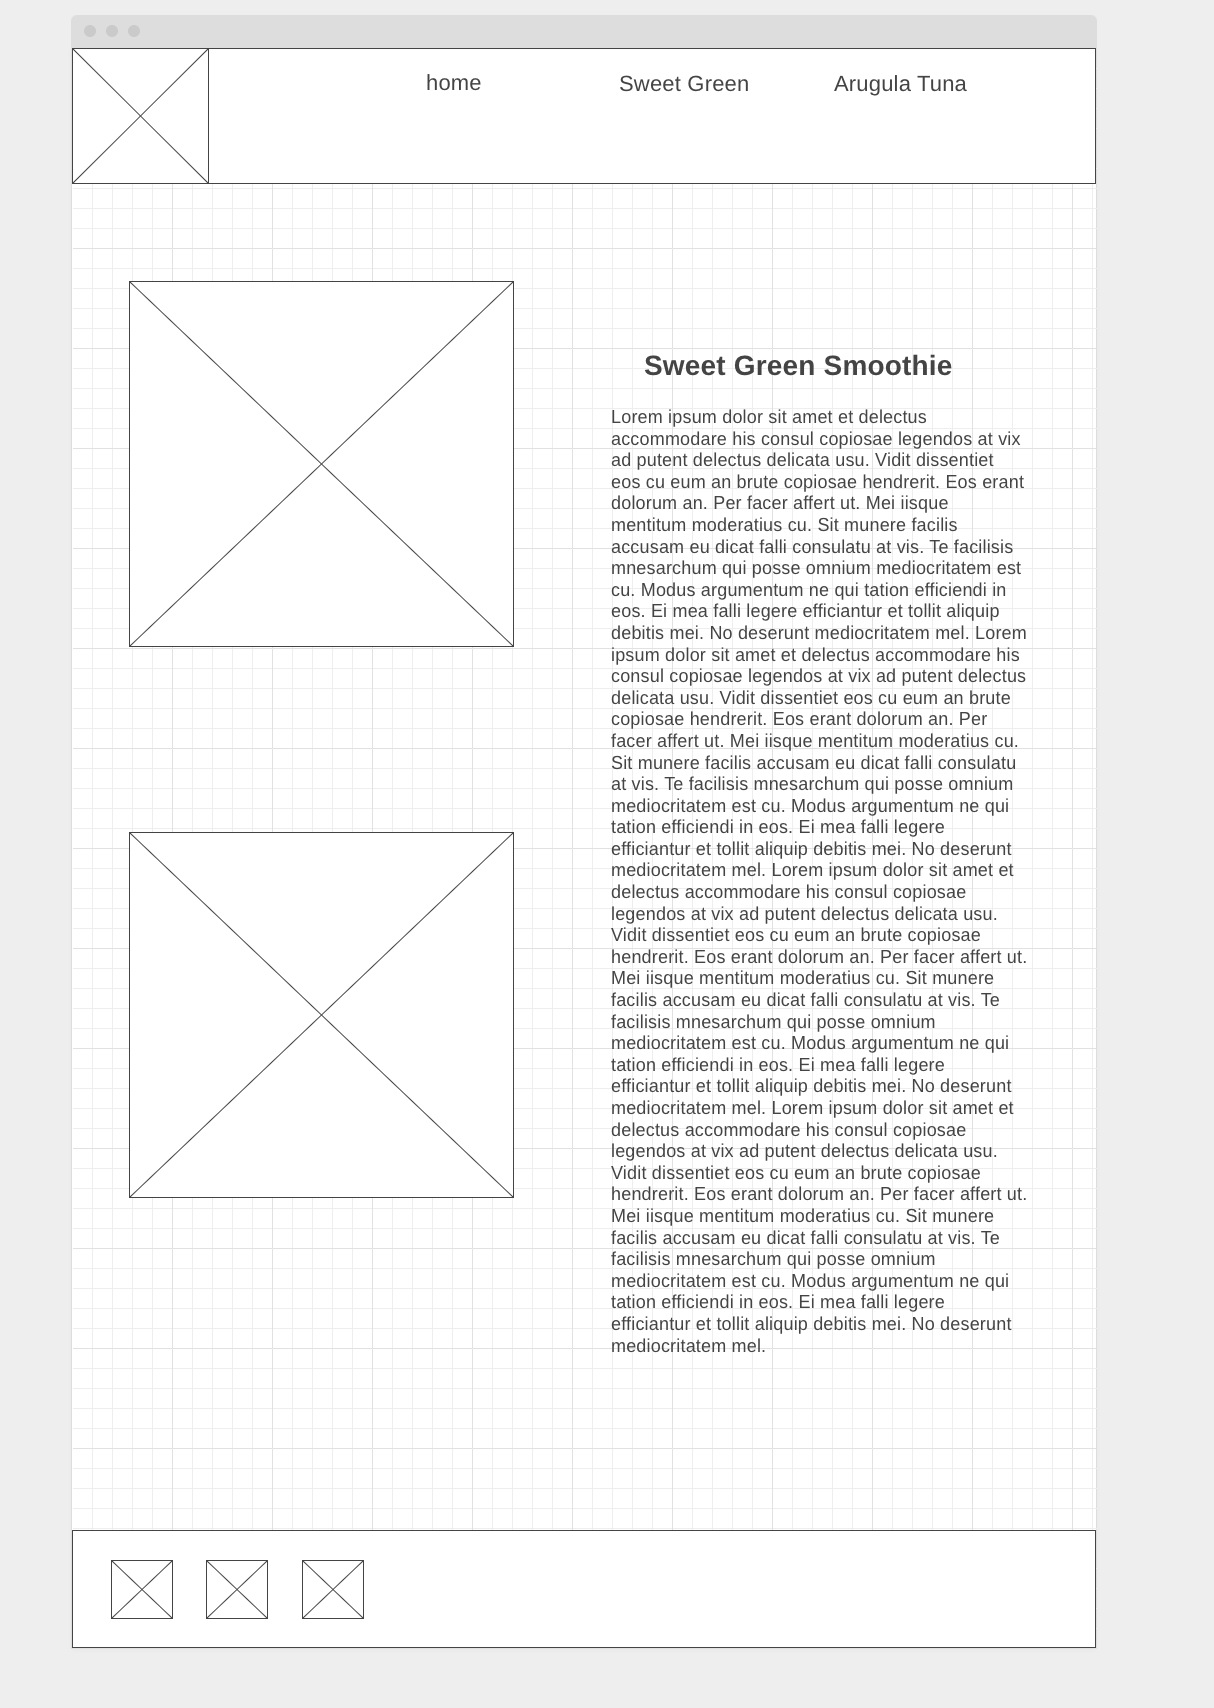
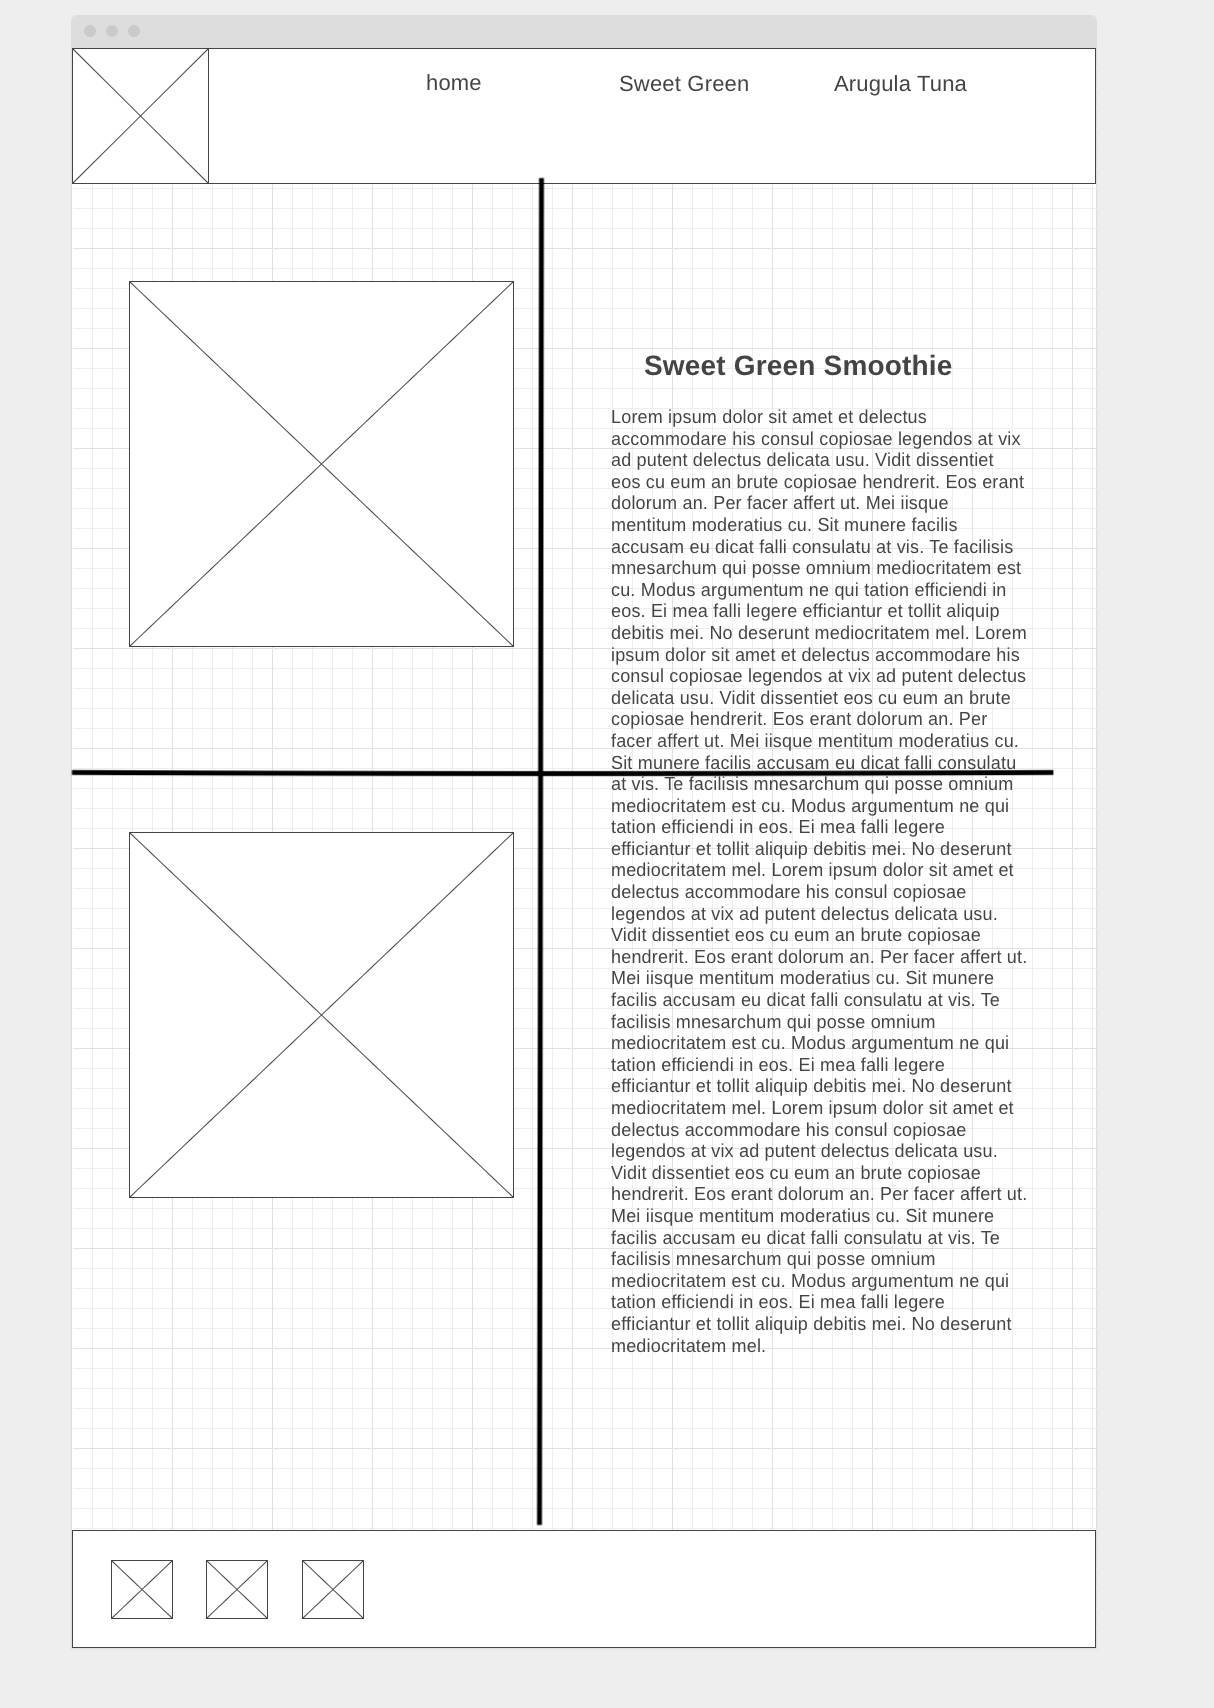
css child pages

Changed region(s): [[0.061, 0.0931, 0.8534, 0.8999]]

diff --git a/katlins_kitchen/sweetgreen.html b/katlins_kitchen/sweetgreen.html
@@ -1,7 +1,7 @@
 <!DOCTYPE html>
 <html lang="en">
 <head>
-    <link rel="stylesheet" href="styles/styles.css">
+    <link rel="stylesheet" href="styles/style.css">
     <meta charset="UTF-8">
     <meta http-equiv="X-UA-Compatible" content="IE=edge">
     <meta name="viewport" content="width=device-width, initial-scale=1.0">
@@ -20,21 +20,21 @@
                 <a href="site-plan.html">Site Plan</a>
             </nav>
         </header>
-        <main>
-            <p>
-                [The Sweet Green recipe 
-                1 cup mixed baby greens (kale and spinach)
-                1 cup frozen diced celery 
-                1 cup frozen diced cucumber 
-                1/2 cup frozen green grapes 
-                1 Tbs frozen diced ginger 
-                1 tsp liquid stevia 
-                3 cups water (more if a thinner consistency is desired)
-                I buy my ingredients fresh then I wash and prep them before freezing. Freezing these ingredients means I can purchase larger amounts from a wholesaler for a lower cost and use them daily over months rather than buying them fresh in small quantities weekly. I wash and peel the ginger before dicing. For freezing the ginger, I have two solid methods; the first is I measure the diced ginger and fill ice cube trays with one tablespoon per ice cube space, filling to the top with water. After I freeze these ginger ice cubes, I store them in a freezer-safe container. An alternative to this is laying the diced ginger flat on a cookie sheet to freeze on parchment paper. After the diced ginger is frozen, it can be stored in a freezer-safe container. I only buy and prep ginger every six months, so using it daily is not a hassle. With all the ingredients pre-prepped and frozen, this smoothie takes less than five minutes to make. I combine all the ingredients in a blender with water and blend. Blend until smooth, and what you have is a wholesome nutrient and fiber-dense smoothie that will leave you refreshed and energized.
-                ] 
+        <main class = "recipe-box">
+            <p class = "recipe-text ">
+                The Sweet Green Recipe<br><br> 
+                1 cup mixed baby greens (kale and spinach)<br>
+                1 cup frozen diced celery<br> 
+                1 cup frozen diced cucumber<br> 
+                1/2 cup frozen green grapes<br> 
+                1 Tbs frozen diced ginger<br> 
+                1 tsp liquid stevia<br> 
+                3 cups water (more if a thinner consistency is desired)<br><br>
+                I buy my ingredients fresh then I wash and prep them before freezing.<br> Freezing these ingredients means I can purchase larger amounts from a wholesaler for a lower cost and use them daily over months rather than buying them fresh in small quantities weekly.<br> I wash and peel the ginger before dicing. For freezing the ginger, I have two solid methods; the first is I measure the diced ginger and fill ice cube trays with one tablespoon per ice cube space, filling to the top with water.<br> After I freeze these ginger ice cubes, I store them in a freezer-safe container.<br> An alternative to this is laying the diced ginger flat on a cookie sheet to freeze on parchment paper.<br> After the diced ginger is frozen, it can be stored in a freezer-safe container.<br> I only buy and prep ginger every six months, so using it daily is not a hassle. With all the ingredients pre-prepped and frozen, this smoothie takes less than five minutes to make.<br> I combine all the ingredients in a blender with water and blend.<br> Blend until smooth, and what you have is a wholesome nutrient and fiber-dense smoothie that will leave you refreshed and energized.
+                 
             </p>
-            <img src="images/small_smoothie.jpg" alt="smoothie pic">
-            <img src="images/spinach.jpg" alt="image for page">
+            <img class="img1" src="images/small_smoothie.jpg" alt="smoothie pic">
+            <img class="img2" src="images/spinach.jpg" alt="image for page">
         </main>
     </div>
     <footer id="footer">

diff --git a/katlins_kitchen/arugulatuna.html b/katlins_kitchen/arugulatuna.html
@@ -1,7 +1,7 @@
 <!DOCTYPE html>
 <html lang="en">
 <head>
-    <link rel="stylesheet" href="styles/styles.css">
+    <link rel="stylesheet" href="styles/style.css">
     <meta charset="UTF-8">
     <meta http-equiv="X-UA-Compatible" content="IE=edge">
     <meta name="viewport" content="width=device-width, initial-scale=1.0">
@@ -20,26 +20,26 @@
                 <a href="site-plan.html">Site Plan</a>
             </nav>
         </header>
-        <main>
-            <p>
-                [Arugula Tuna Salad
-                3.5 oz can of tuna 
-                2 Tbs apple cider vinegar 
-                1 Tbs olive oil
-                juice of 1 lemon 
-                1/4 tsp salt 
-                1/4 tsp pepper
-                1/4 tsp onion powder 
-                1/4 tsp garlic powder 
-                1 Tbs sprouted pumpkin seeds 
-                1 Tbs fat-free feta cheese 
-                1 medium-sized cucumber, diced 
-                4oz arugula 
-                To start, I combine the can of tuna (drained) in a medium size bowl with apple cider vinegar, olive oil, lemon juice, and seasonings, then mix it until it is very well combined. I dress the arugula with a little extra oil, vinegar, and salt before I lay it down in a flat dish and top it evenly with the tuna mixture. After the tuna is evenly distributed atop the arugula, I sprinkle the cucumber, feta, and pumpkin seeds on top to garnish.
-                ]
+        <main class = "recipe-box">
+            <p class = "recipe-text ">
+                Arugula Tuna Salad<br><br> 
+                3.5 oz can of tuna<br> 
+                2 Tbs apple cider vinegar<br> 
+                1 Tbs olive oil<br>
+                juice of 1 lemon<br> 
+                1/4 tsp salt<br> 
+                1/4 tsp pepper<br>
+                1/4 tsp onion powder<br> 
+                1/4 tsp garlic powder<br> 
+                1 Tbs sprouted pumpkin seeds<br> 
+                1 Tbs fat-free feta cheese<br> 
+                1 medium-sized cucumber, diced<br> 
+                4oz arugula<br> 
+                To start, I combine the can of tuna (drained) in a medium size bowl with apple cider vinegar, olive oil, lemon juice, and seasonings.<br> Then mix it until it is very well combined. I dress the arugula with a little extra oil, vinegar, and salt before I lay it down in a flat dish and top it evenly with the tuna mixture.<br> After the tuna is evenly distributed atop the arugula, I sprinkle the cucumber, feta, and lastly, pumpkin seed garnish.
+                
             </p>
-            <img src="images/small_374arugula_tuna.jpg" alt="salad image for page3">
-            <img src="images/page3arugula.jpg" alt="image for page3">
+            <img class="img1" src="images/small_374arugula_tuna.jpg" alt="salad image for page3">
+            <img class="img2"src="images/page3arugula.jpg" alt="image for page3">
         </main>
     </div>
     <footer id="footer">

diff --git a/katlins_kitchen/styles/style.css b/katlins_kitchen/styles/style.css
@@ -22,6 +22,7 @@ header {
     display: grid;
     grid-template-columns: 150px auto;
     text-align: center;
+    box-shadow:5px 5px 10px #6f7364;
     z-index: -1;
 }
 .logo {
@@ -74,11 +75,13 @@ nav a:hover {
     font-family:'Montserrat', sans-serif;
     color: #E6E6E6;
     font-size: x-large;
+    padding: 50px;
     align-self: center;
     text-align: center;
     grid-column: 2/4;
     grid-row:2/3;
     background-color:#125431;
+    box-shadow: 5px 5px 10px #6f7364;
 }
 #first-image {
     box-sizing: border-box;
@@ -110,4 +113,40 @@ footer p{
 footer p:hover {
     background-color: #125431;
     color: #E6E6E6;
+}
+.recipe-box{
+    display: grid;
+    grid-template-columns:1fr 1fr;
+    grid-template-rows:1fr 1fr;
+    background-color: #125431;
+}
+.recipe-text{
+    font-size: 2em;
+    grid-column: 2/3;
+    grid-row:1/3;
+    background-color: #9BE8BE;
+    justify-self: center;
+    align-self: center;
+    margin: 50px;
+    padding:50px;
+    box-shadow: 5px 5px 10px black;
+}
+.img1{
+    grid-column: 1/2;
+    grid-row:1/2;
+    justify-self: center;
+    align-self: center;
+    margin:50px;
+    padding:50px;
+    background-color: #E6E6E6;
+    box-shadow: 5px 5px 10px black;
+}
+.img2{
+    grid-column: 1/2;
+    grid-row:2/3;
+    justify-self: center;
+    margin:50px;
+    padding:50px;
+    background-color: #E6E6E6;
+    box-shadow: 5px 5px 10px black;
 }

diff --git a/katlins_kitchen/index.html b/katlins_kitchen/index.html
@@ -37,7 +37,7 @@
                 The Sweet Green smoothie is a green smoothie that is stacked with fiber and micronutrients. The sweetness comes from green grapes and liquid stevia. It has ginger to aid digestion, cucumber that inhibits the activity of pro-inflammatory enzymes, and celery that contains 1.6 grams of insoluble fiber per cup. Fiber fosters a diverse and healthy gut microbiome, balances cholesterol levels, and prevents blood sugar spikes.
                 Arugula Tuna: 
                 The Arugula Tuna salad balances tuna, arugula, and cucumber. Tuna is low calorie and high protein while rich in omega-3 fatty acids, potassium, manganese, zinc, vitamin C, iron, vitamin B, and selenium. Omega-3 fatty acids support the health of our heart and, when combined with potassium, have anti-inflammatory effects. Manganese, zinc, vitamin C, and selenium support our immune system, while iron and vitamin B help with blood circulation. Arugula is an excellent source of antioxidants, and cucumber gives us anti-inflammatory benefits.
-                ]  
+                  
             </p>
             <img id="first-image" src="images/salad_home_page.jpg" alt="salad image for homepage">
         </div>
